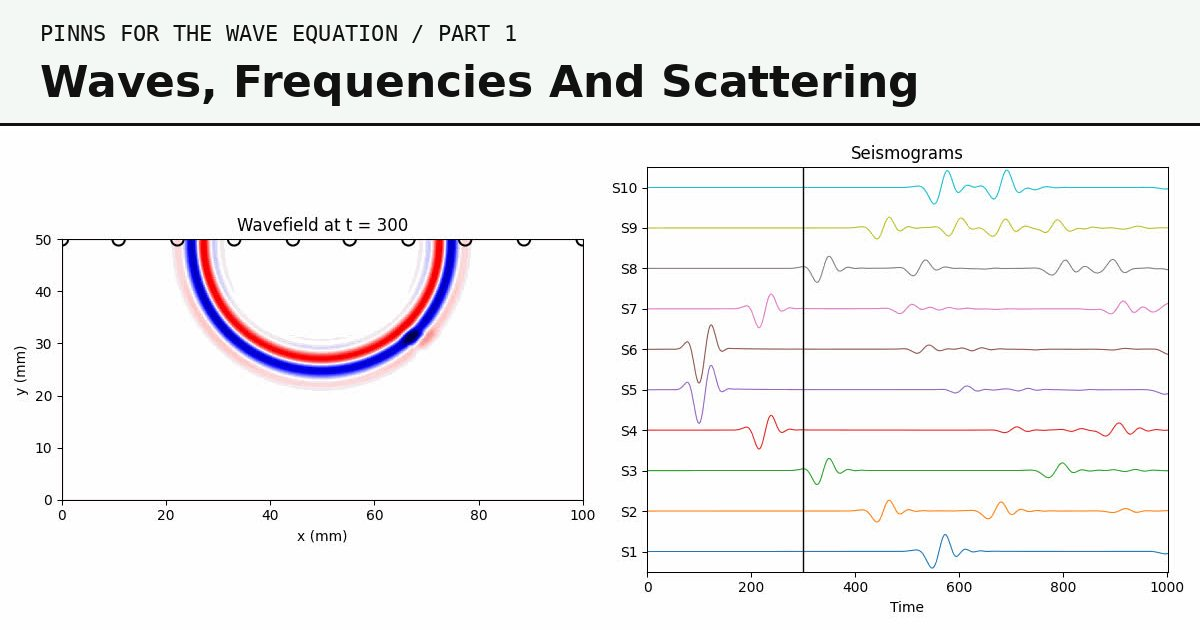
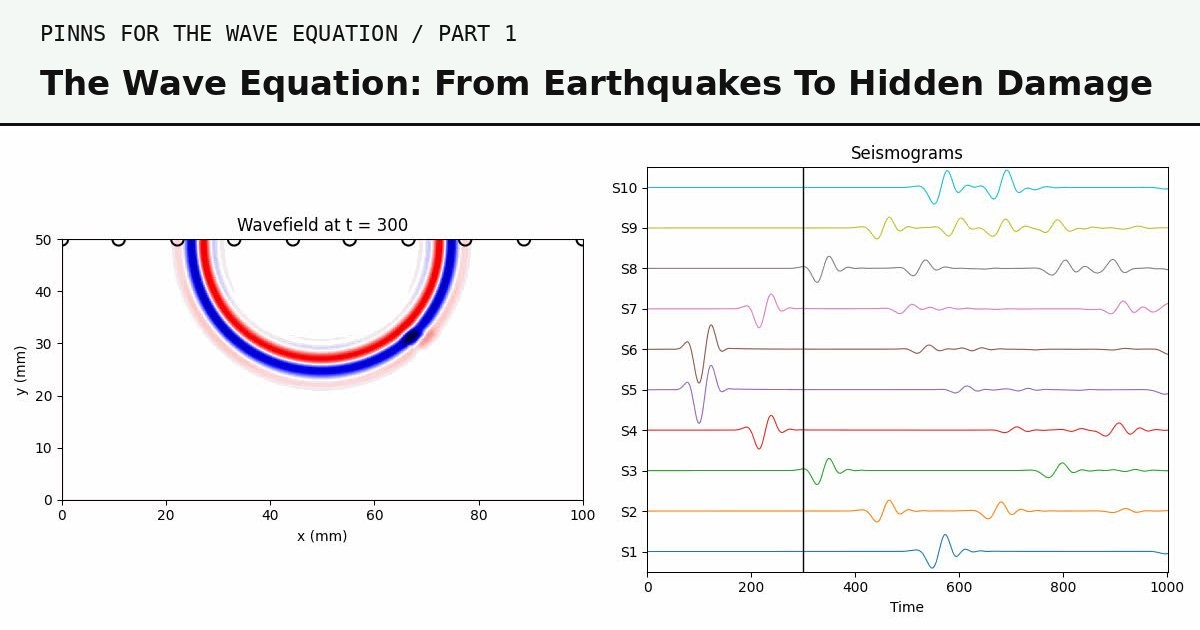
Part 1: new title 'The Wave Equation: From Earthquakes To Hidden Damage'
Updates the page heading, series card, browser title, social preview
text and image, and structured data. URL is unchanged.

Claude-Session: https://claude.ai/code/session_01Hr3onEVabcmNZVpwGadwaP

Changed region(s): [[0.0308, 0.0905, 0.9558, 0.181]]

diff --git a/pinns-wave-equation-part-1.html b/pinns-wave-equation-part-1.html
@@ -3,14 +3,14 @@
 <head>
 <meta charset="utf-8">
 <meta name="viewport" content="width=device-width, initial-scale=1">
-<title>Waves, Frequencies And Scattering: PINNs For The Wave Equation, Part 1 | Hannan</title>
+<title>The Wave Equation: From Earthquakes To Hidden Damage | PINNs Part 1 | Hannan</title>
 <meta name="description" content="An introduction to the wave equation: elastic and acoustic waves, frequency and wavelength, time versus frequency domain, and the scattered field, with animations. Part 1 of a series on physics-informed neural networks (PINNs) for waves.">
 <meta name="author" content="Hannan">
 <meta name="robots" content="index, follow, max-image-preview:large">
 <link rel="canonical" href="https://hannanmustajab.github.io/pinns-wave-equation-part-1.html">
 <meta property="og:site_name" content="Hannan Mustajab">
 <meta property="og:type" content="article">
-<meta property="og:title" content="Waves, Frequencies And Scattering: PINNs For The Wave Equation, Part 1">
+<meta property="og:title" content="The Wave Equation: From Earthquakes To Hidden Damage | PINNs Part 1">
 <meta property="og:description" content="An introduction to the wave equation: elastic and acoustic waves, frequency and wavelength, time versus frequency domain, and the scattered field, with animations. Part 1 of a series on physics-informed neural networks (PINNs) for waves.">
 <meta property="og:url" content="https://hannanmustajab.github.io/pinns-wave-equation-part-1.html">
 <meta property="og:image" content="https://hannanmustajab.github.io/assets/writing/pinns-part-1/og-part-1.jpg">
@@ -22,10 +22,10 @@
 <meta property="article:tag" content="Wave equation">
 <meta property="article:tag" content="PINNs">
 <meta name="twitter:card" content="summary_large_image">
-<meta name="twitter:title" content="Waves, Frequencies And Scattering: PINNs For The Wave Equation, Part 1">
+<meta name="twitter:title" content="The Wave Equation: From Earthquakes To Hidden Damage | PINNs Part 1">
 <meta name="twitter:description" content="An introduction to the wave equation: elastic and acoustic waves, frequency and wavelength, time versus frequency domain, and the scattered field, with animations. Part 1 of a series on physics-informed neural networks (PINNs) for waves.">
 <meta name="twitter:image" content="https://hannanmustajab.github.io/assets/writing/pinns-part-1/og-part-1.jpg">
-<script type="application/ld+json">{"@context": "https://schema.org", "@graph": [{"@type": "BlogPosting", "@id": "https://hannanmustajab.github.io/pinns-wave-equation-part-1.html#article", "headline": "Waves, Frequencies And Scattering", "alternativeHeadline": "PINNs For The Wave Equation, Part 1 of 3", "description": "An introduction to the wave equation: elastic and acoustic waves, frequency and wavelength, time versus frequency domain, and the scattered field, with animations. Part 1 of a series on physics-informed neural networks (PINNs) for waves.", "url": "https://hannanmustajab.github.io/pinns-wave-equation-part-1.html", "mainEntityOfPage": "https://hannanmustajab.github.io/pinns-wave-equation-part-1.html", "image": ["https://hannanmustajab.github.io/assets/writing/pinns-part-1/og-part-1.jpg"], "datePublished": "2026-11-01", "dateModified": "2026-11-04", "inLanguage": "en", "author": {"@id": "https://hannanmustajab.github.io/#person"}, "publisher": {"@id": "https://hannanmustajab.github.io/#person"}, "isPartOf": {"@type": "CreativeWorkSeries", "name": "PINNs For The Wave Equation"}, "keywords": "wave equation, physics-informed neural networks, PINNs, acoustic wave equation, elastic wave equation, Helmholtz equation, scattered field, frequency domain, time domain, wavelength, non-destructive testing, seismic imaging", "about": ["Wave equation", "Physics-informed neural networks", "Scattering"], "educationalLevel": "Introductory"}, {"@type": "BreadcrumbList", "itemListElement": [{"@type": "ListItem", "position": 1, "name": "Home", "item": "https://hannanmustajab.github.io/"}, {"@type": "ListItem", "position": 2, "name": "Writing", "item": "https://hannanmustajab.github.io/pinns-wave-equation-part-1.html"}, {"@type": "ListItem", "position": 3, "name": "Waves, Frequencies And Scattering", "item": "https://hannanmustajab.github.io/pinns-wave-equation-part-1.html"}]}]}</script>
+<script type="application/ld+json">{"@context": "https://schema.org", "@graph": [{"@type": "BlogPosting", "@id": "https://hannanmustajab.github.io/pinns-wave-equation-part-1.html#article", "headline": "The Wave Equation: From Earthquakes To Hidden Damage", "alternativeHeadline": "PINNs For The Wave Equation, Part 1 of 3", "description": "An introduction to the wave equation: elastic and acoustic waves, frequency and wavelength, time versus frequency domain, and the scattered field, with animations. Part 1 of a series on physics-informed neural networks (PINNs) for waves.", "url": "https://hannanmustajab.github.io/pinns-wave-equation-part-1.html", "mainEntityOfPage": "https://hannanmustajab.github.io/pinns-wave-equation-part-1.html", "image": ["https://hannanmustajab.github.io/assets/writing/pinns-part-1/og-part-1.jpg"], "datePublished": "2026-11-01", "dateModified": "2026-11-04", "inLanguage": "en", "author": {"@id": "https://hannanmustajab.github.io/#person"}, "publisher": {"@id": "https://hannanmustajab.github.io/#person"}, "isPartOf": {"@type": "CreativeWorkSeries", "name": "PINNs For The Wave Equation"}, "keywords": "wave equation, physics-informed neural networks, PINNs, acoustic wave equation, elastic wave equation, Helmholtz equation, scattered field, frequency domain, time domain, wavelength, non-destructive testing, seismic imaging", "about": ["Wave equation", "Physics-informed neural networks", "Scattering"], "educationalLevel": "Introductory"}, {"@type": "BreadcrumbList", "itemListElement": [{"@type": "ListItem", "position": 1, "name": "Home", "item": "https://hannanmustajab.github.io/"}, {"@type": "ListItem", "position": 2, "name": "Writing", "item": "https://hannanmustajab.github.io/pinns-wave-equation-part-1.html"}, {"@type": "ListItem", "position": 3, "name": "The Wave Equation: From Earthquakes To Hidden Damage", "item": "https://hannanmustajab.github.io/pinns-wave-equation-part-1.html"}]}]}</script>
 <link rel="icon" href="favicon.svg" type="image/svg+xml">
 <link rel="preconnect" href="https://fonts.googleapis.com">
 <link rel="preconnect" href="https://fonts.gstatic.com" crossorigin>
@@ -43,7 +43,7 @@
     </nav>
     <header class="p1-gutter" style="max-width: 1240px; margin: 0 auto; padding: 40px 24px 0; display: flex; flex-direction: column; gap: 24px">
       <span style="font-family: 'JetBrains Mono', monospace; font-size: 13px; letter-spacing: 0.06em">WRITING / PINNS FOR THE WAVE EQUATION / PART 1 OF 3</span>
-      <h1 style="margin: 0; font-family: 'Archivo', sans-serif; font-weight: 800; font-size: clamp(48px, 7vw, 96px); line-height: 0.95; letter-spacing: -0.04em; max-width: 1100px">Waves, Frequencies And Scattering</h1>
+      <h1 style="margin: 0; font-family: 'Archivo', sans-serif; font-weight: 800; font-size: clamp(48px, 7vw, 96px); line-height: 0.95; letter-spacing: -0.04em; max-width: 1100px">The Wave Equation: From Earthquakes To Hidden Damage</h1>
       <p style="margin: 0; font-family: 'Archivo', sans-serif; font-weight: 500; font-size: clamp(22px, 2.6vw, 30px); line-height: 1.3; letter-spacing: -0.01em; max-width: 960px">Before a neural network can simulate a wave, we need to know what the wave equation says, why we often simplify it, how the same wave looks in time and in frequency, and what we mean by the scattered field.</p>
       <div style="display: flex; flex-wrap: wrap; gap: 8px; align-items: center"><span style="font-family: 'JetBrains Mono', monospace; font-size: 12px; padding: 4px 10px; background: #FFE066; border: 2px solid #111111">SERIES, PART 1 OF 3</span><span style="font-family: 'JetBrains Mono', monospace; font-size: 12px; padding: 4px 10px; background: #FFFFFF; border: 2px solid #111111">BY HANNAN</span><span style="font-family: 'JetBrains Mono', monospace; font-size: 12px; padding: 4px 10px; background: #FFFFFF; border: 2px solid #111111">NOV 1, 2026</span><span style="font-family: 'JetBrains Mono', monospace; font-size: 12px; padding: 4px 10px; background: #FFFFFF; border: 2px solid #111111">12 MIN READ</span><span style="font-family: 'JetBrains Mono', monospace; font-size: 12px; padding: 4px 10px; background: #FFFFFF; border: 2px solid #111111">INTRODUCTION</span><span style="font-family: 'JetBrains Mono', monospace; font-size: 12px; padding: 4px 10px; background: #FFFFFF; border: 2px solid #111111">WAVE EQUATION</span></div>
     </header>
@@ -51,7 +51,7 @@
   </div>
   <main>
     <section aria-label="The series" class="p1-gutter" style="max-width: 1240px; margin: 0 auto; padding: 40px 24px 0">
-      <div style="display: grid; grid-template-columns: repeat(auto-fit, minmax(260px, 1fr)); gap: 16px"><a href="pinns-wave-equation-part-1.html" aria-current="page" style="background: #FFE066; border: 2px solid #111111; padding: 18px 20px; text-decoration: none; color: #111111; display: flex; flex-direction: column; gap: 6px; box-shadow: 6px 6px 0 #111111"><span style="font-family: 'JetBrains Mono', monospace; font-size: 12px">PART 1 OF 3 / YOU ARE HERE</span><span style="font-family: 'Archivo', sans-serif; font-weight: 800; font-size: 22px; line-height: 1.1">Waves, Frequencies And Scattering</span><span style="font-size: 14px; color: #333333">What the wave equation says, time versus frequency, and what a scattered field is.</span></a><div aria-disabled="true" style="background: #F4F4F4; border: 2px dashed #9A9A9A; padding: 18px 20px; color: #6B6B6B; display: flex; flex-direction: column; gap: 6px; cursor: default"><span style="font-family: 'JetBrains Mono', monospace; font-size: 12px">PART 2 OF 3 / COMING SOON</span><span style="font-family: 'Archivo', sans-serif; font-weight: 800; font-size: 22px; line-height: 1.1">Why We Learn The Scattered Field</span><span style="font-size: 14px; color: #6B6B6B">Splitting off the known incident wave so the network learns only the echo from the damage.</span></div><div aria-disabled="true" style="background: #F4F4F4; border: 2px dashed #9A9A9A; padding: 18px 20px; color: #6B6B6B; display: flex; flex-direction: column; gap: 6px; cursor: default"><span style="font-family: 'JetBrains Mono', monospace; font-size: 12px">PART 3 OF 3 / COMING SOON</span><span style="font-family: 'Archivo', sans-serif; font-weight: 800; font-size: 22px; line-height: 1.1">Architectures That Can Capture Waves</span><span style="font-size: 14px; color: #6B6B6B">An overview of encodings, sine activations, optimisers and adaptive sampling.</span></div></div>
+      <div style="display: grid; grid-template-columns: repeat(auto-fit, minmax(260px, 1fr)); gap: 16px"><a href="pinns-wave-equation-part-1.html" aria-current="page" style="background: #FFE066; border: 2px solid #111111; padding: 18px 20px; text-decoration: none; color: #111111; display: flex; flex-direction: column; gap: 6px; box-shadow: 6px 6px 0 #111111"><span style="font-family: 'JetBrains Mono', monospace; font-size: 12px">PART 1 OF 3 / YOU ARE HERE</span><span style="font-family: 'Archivo', sans-serif; font-weight: 800; font-size: 22px; line-height: 1.1">The Wave Equation: From Earthquakes To Hidden Damage</span><span style="font-size: 14px; color: #333333">What the wave equation says, time versus frequency, and what a scattered field is.</span></a><div aria-disabled="true" style="background: #F4F4F4; border: 2px dashed #9A9A9A; padding: 18px 20px; color: #6B6B6B; display: flex; flex-direction: column; gap: 6px; cursor: default"><span style="font-family: 'JetBrains Mono', monospace; font-size: 12px">PART 2 OF 3 / COMING SOON</span><span style="font-family: 'Archivo', sans-serif; font-weight: 800; font-size: 22px; line-height: 1.1">Why We Learn The Scattered Field</span><span style="font-size: 14px; color: #6B6B6B">Splitting off the known incident wave so the network learns only the echo from the damage.</span></div><div aria-disabled="true" style="background: #F4F4F4; border: 2px dashed #9A9A9A; padding: 18px 20px; color: #6B6B6B; display: flex; flex-direction: column; gap: 6px; cursor: default"><span style="font-family: 'JetBrains Mono', monospace; font-size: 12px">PART 3 OF 3 / COMING SOON</span><span style="font-family: 'Archivo', sans-serif; font-weight: 800; font-size: 22px; line-height: 1.1">Architectures That Can Capture Waves</span><span style="font-size: 14px; color: #6B6B6B">An overview of encodings, sine activations, optimisers and adaptive sampling.</span></div></div>
     </section>
     <div class="p1-col"><nav class="p1-toc" aria-label="In this part"><span class="p1-toc-label">IN THIS PART</span><ol><li><a href="#why-study-the-wave-equation"><span class="p1-toc-num">01</span>Why Study The Wave Equation?</a></li><li><a href="#the-elastic-wave-equation"><span class="p1-toc-num">02</span>The Elastic Wave Equation</a></li><li><a href="#from-elastic-to-acoustic"><span class="p1-toc-num">03</span>From Elastic To Acoustic</a></li><li><a href="#frequency-wavelength-and-how-many-waves-fit"><span class="p1-toc-num">04</span>Frequency, Wavelength And How Many Waves Fit</a></li><li><a href="#time-domain-versus-frequency-domain"><span class="p1-toc-num">05</span>Time Domain Versus Frequency Domain</a></li><li><a href="#what-is-a-scattered-field"><span class="p1-toc-num">06</span>What Is A Scattered Field?</a></li><li><a href="#how-a-wave-reveals-damage"><span class="p1-toc-num">07</span>How A Wave Reveals Damage</a></li><li><a href="#references"><span class="p1-toc-num">08</span>References</a></li><li><a href="#appendix-the-applications-in-pictures"><span class="p1-toc-num">09</span>Appendix: The Applications In Pictures</a></li></ol></nav><article class="p1-article"><p>What is a wave? Whitham gives a deliberately broad definition: "a wave is any recognizable signal that is transferred from one part of the medium to another with a recognizable velocity of propagation" <span class="p1-cite">[<a href="#ref-22">22</a>]</span>. In seismology and ultrasonics the signal is a mechanical disturbance, a small displacement of the material that propagates as an elastic wave <span class="p1-cite">[<a href="#ref-1">1</a>, <a href="#ref-14">14</a>]</span>. When an ultrasonic transducer excites a concrete specimen, such a pulse travels through it, reflects at the boundaries and is scattered by any heterogeneity inside, such as a void, a crack or a region of damage. If we can model this wave accurately, we can also work backwards from measurements and infer what is hidden. This is the motivation for the whole series.</p><figure id="fig-opening" class="p1-fig p1-wide p1-hero"><div class="p1-fig-media"><video class="p1-anim" autoplay muted loop playsinline preload="auto" poster="assets/writing/pinns-part-1/wave_and_seismograms-poster.jpg" width="1200" height="500" aria-label="Animation: a wave propagating through a block with a damaged region and ten receivers on the top surface, next to the ten signals the receivers record over time" style="display: block; width: 100%; height: auto; aspect-ratio: 1200 / 500; max-width: 1200px; margin: 0 auto"><source src="assets/writing/pinns-part-1/wave_and_seismograms.mp4" type="video/mp4"></video></div><figcaption><span class="p1-fig-tags"><span class="p1-fig-label">THE SERIES IN ONE PICTURE</span><span class="p1-tag">ANIMATION</span></span><span class="p1-fig-text">The series in one animation. Left: a cross-section of a block containing a small damaged region. A source at the centre of the top surface emits a pulse, and a circular wavefront propagates into the block. When the wavefront reaches the damage, the damage itself becomes a secondary source and emits a scattered wavefront. Right: ten receivers on the top surface (S1 to S10) record the surface response over time; the vertical line marks the instant shown on the left. In a real measurement only the right-hand side is available. The question this series works towards is whether the interior on the left can be reconstructed from those recordings. Animation by the author.</span></figcaption></figure><aside class="p1-callout" aria-label="How this part is organised"><p>Each section below explains one part of this picture: the equation that governs the wavefront (the wave equation), how its wavelength limits what it can resolve (frequency and wavelength), two equivalent descriptions of it (time and frequency domain), and the secondary wavefront emitted by the damage (the scattered field).</p></aside><section aria-labelledby="why-study-the-wave-equation" class="p1-section"><h2 id="why-study-the-wave-equation">Why Study The Wave Equation?</h2><p>Waves are everywhere. Sound, light, radio and Wi-Fi signals, ocean swell, earthquakes and the electrical rhythms of the brain recorded in an EEG are all waves, and Whitham's definition is broad enough to include waves of traffic density on a motorway <span class="p1-cite">[<a href="#ref-22">22</a>]</span>. The mathematics developed for them also reaches far beyond physics. In quantitative finance, option prices are computed in the frequency domain with the fast Fourier transform, the same tool used to move between time and frequency later in this post <span class="p1-cite">[<a href="#ref-23">23</a>]</span>, and wavelets, localised wave packets, are used to separate financial time series into components that act on different time scales <span class="p1-cite">[<a href="#ref-24">24</a>]</span>. Learning to describe waves well is therefore a skill that transfers across many fields.</p><p>Waves are one of the few ways to look inside an object without opening it. As they propagate, everything they encounter alters them: a layer changes their speed, a crack reflects them, a void bends (scatters) them. A recording of the wavefield at the surface therefore carries information about the interior, provided we know how to interpret it. The wave equation is the physical law that links the interior of the material to what we record, and almost every wave-based imaging method starts from it.</p><p>The imaging applications in Figure A all work the same way: a source sends a wave, the wave interacts with the medium, and a receiver records what comes back.</p><figure id="fig-a" class="p1-fig p1-wide"><div class="p1-fig-media"><img src="assets/writing/pinns-part-1/apps.png" alt="Seven applications of the wave equation, each drawn as source, wave, target and receiver" width="2296" height="1288" loading="lazy" decoding="async" style="aspect-ratio: 2296 / 1288; max-width: 2296px; margin: 0 auto"></div><figcaption><span class="p1-fig-tags"><span class="p1-fig-label">FIGURE A</span></span><span class="p1-fig-text">Seven applications of the wave equation, drawn with the same symbols. Numbers in brackets point to the references. Photographs of each application are in the appendix.</span></figcaption></figure><div class="p1-table" role="region" aria-label="Table" tabindex="0"><table><thead><tr><th scope="col">Application</th><th scope="col">What travels</th><th scope="col">What we want to know</th><th scope="col">Further reading</th></tr></thead><tbody><tr><th scope="row">Earthquake seismology</th><td>elastic waves through the Earth</td><td>the structure of the crust and mantle, the earthquake source</td><td class="p1-refcell"><span class="p1-cite">[<a href="#ref-1">1</a>]</span></td></tr><tr><th scope="row">Exploration geophysics</th><td>seismic waves from controlled sources</td><td>rock layers, reservoirs, the ground under a building site</td><td class="p1-refcell"><span class="p1-cite">[<a href="#ref-8">8</a>]</span>, <span class="p1-cite">[<a href="#ref-9">9</a>]</span></td></tr><tr><th scope="row">Non-destructive testing</th><td>ultrasound in steel, concrete or composites</td><td>cracks, voids and delamination, without damaging the part</td><td class="p1-refcell"><span class="p1-cite">[<a href="#ref-14">14</a>]</span></td></tr><tr><th scope="row">Structural health monitoring</th><td>guided and bulk waves in bridges, pipes and buildings</td><td>whether damage is forming over time</td><td class="p1-refcell"><span class="p1-cite">[<a href="#ref-18">18</a>]</span></td></tr><tr><th scope="row">Medical ultrasound</th><td>sound in soft tissue</td><td>images of organs and blood flow</td><td class="p1-refcell"><span class="p1-cite">[<a href="#ref-15">15</a>]</span></td></tr><tr><th scope="row">Underwater acoustics and sonar</th><td>sound in the ocean</td><td>objects, the sea floor, ocean properties</td><td class="p1-refcell"><span class="p1-cite">[<a href="#ref-16">16</a>]</span></td></tr><tr><th scope="row">Ground penetrating radar</th><td>electromagnetic waves in soil and concrete</td><td>rebar, pipes, moisture, buried objects</td><td class="p1-refcell"><span class="p1-cite">[<a href="#ref-17">17</a>]</span></td></tr></tbody></table></div><p>The last row is a reminder that the same mathematics also describes light and radio waves. Everything in this series is about mechanical waves in solids, but the ideas carry over.</p></section><section aria-labelledby="the-elastic-wave-equation" class="p1-section"><h2 id="the-elastic-wave-equation">The Elastic Wave Equation</h2><p>In a solid such as concrete or rock, every point can move in any direction. We describe this with a displacement vector <strong>u</strong>(x, t): how far, and in which direction, the point at x has moved at time t. Newton's second law (mass times acceleration equals force) applied to a tiny piece of the solid gives the elastic wave equation <span class="p1-cite">[<a href="#ref-1">1</a>, <a href="#ref-2">2</a>, <a href="#ref-3">3</a>]</span>:</p><div class="p1-eq" role="group" aria-label="elastic wave equation"><span class="p1-eq-label">ELASTIC WAVE EQUATION</span><div class="p1-eq-body"><div class="p1-eq-part"><span class="katex-display"><span class="katex"><span class="katex-mathml"><math xmlns="http://www.w3.org/1998/Math/MathML" display="block"><semantics><mrow><mi>ρ</mi><mo stretchy="false">(</mo><mi>x</mi><mo stretchy="false">)</mo><mtext> </mtext><mfrac><mrow><msup><mi mathvariant="normal">∂</mi><mn>2</mn></msup><mi mathvariant="bold">u</mi></mrow><mrow><mi mathvariant="normal">∂</mi><msup><mi>t</mi><mn>2</mn></msup></mrow></mfrac><mo>=</mo><mi mathvariant="normal">∇</mi><mo>⋅</mo><mi mathvariant="bold-italic">σ</mi><mo>+</mo><mi mathvariant="bold">f</mi><mo separator="true">,</mo></mrow><annotation encoding="application/x-tex">\rho(x) \, \frac{\partial^2 \mathbf{u}}{\partial t^2} = \nabla \cdot \boldsymbol{\sigma} + \mathbf{f},</annotation></semantics></math></span><span class="katex-html" aria-hidden="true"><span class="base"><span class="strut" style="height:2.1771em;vertical-align:-0.686em;"></span><span class="mord mathnormal">ρ</span><span class="mopen">(</span><span class="mord mathnormal">x</span><span class="mclose">)</span><span class="mspace" style="margin-right:0.1667em;"></span><span class="mord"><span class="mopen nulldelimiter"></span><span class="mfrac"><span class="vlist-t vlist-t2"><span class="vlist-r"><span class="vlist" style="height:1.4911em;"><span style="top:-2.314em;"><span class="pstrut" style="height:3em;"></span><span class="mord"><span class="mord" style="margin-right:0.05556em;">∂</span><span class="mord"><span class="mord mathnormal">t</span><span class="msupsub"><span class="vlist-t"><span class="vlist-r"><span class="vlist" style="height:0.7401em;"><span style="top:-2.989em;margin-right:0.05em;"><span class="pstrut" style="height:2.7em;"></span><span class="sizing reset-size6 size3 mtight"><span class="mord mtight">2</span></span></span></span></span></span></span></span></span></span><span style="top:-3.23em;"><span class="pstrut" style="height:3em;"></span><span class="frac-line" style="border-bottom-width:0.04em;"></span></span><span style="top:-3.677em;"><span class="pstrut" style="height:3em;"></span><span class="mord"><span class="mord"><span class="mord" style="margin-right:0.05556em;">∂</span><span class="msupsub"><span class="vlist-t"><span class="vlist-r"><span class="vlist" style="height:0.8141em;"><span style="top:-3.063em;margin-right:0.05em;"><span class="pstrut" style="height:2.7em;"></span><span class="sizing reset-size6 size3 mtight"><span class="mord mtight">2</span></span></span></span></span></span></span></span><span class="mord mathbf">u</span></span></span></span><span class="vlist-s"></span></span><span class="vlist-r"><span class="vlist" style="height:0.686em;"><span></span></span></span></span></span><span class="mclose nulldelimiter"></span></span><span class="mspace" style="margin-right:0.2778em;"></span><span class="mrel">=</span><span class="mspace" style="margin-right:0.2778em;"></span></span><span class="base"><span class="strut" style="height:0.6833em;"></span><span class="mord">∇</span><span class="mspace" style="margin-right:0.2222em;"></span><span class="mbin">⋅</span><span class="mspace" style="margin-right:0.2222em;"></span></span><span class="base"><span class="strut" style="height:0.6667em;vertical-align:-0.0833em;"></span><span class="mord"><span class="mord"><span class="mord boldsymbol" style="margin-right:0.03704em;">σ</span></span></span><span class="mspace" style="margin-right:0.2222em;"></span><span class="mbin">+</span><span class="mspace" style="margin-right:0.2222em;"></span></span><span class="base"><span class="strut" style="height:0.8889em;vertical-align:-0.1944em;"></span><span class="mord mathbf" style="margin-right:0.10903em;">f</span><span class="mpunct">,</span></span></span></span></span></div><div class="p1-eq-part"><span class="katex-display"><span class="katex"><span class="katex-mathml"><math xmlns="http://www.w3.org/1998/Math/MathML" display="block"><semantics><mrow><mi mathvariant="bold-italic">σ</mi><mo>=</mo><mi>λ</mi><mtext> </mtext><mo stretchy="false">(</mo><mi mathvariant="normal">∇</mi><mo>⋅</mo><mi mathvariant="bold">u</mi><mo stretchy="false">)</mo><mtext> </mtext><mi mathvariant="bold">I</mi><mo>+</mo><mi>μ</mi><mrow><mo fence="true">(</mo><mi mathvariant="normal">∇</mi><mi mathvariant="bold">u</mi><mo>+</mo><mi mathvariant="normal">∇</mi><msup><mi mathvariant="bold">u</mi><mi mathvariant="normal">⊤</mi></msup><mo fence="true">)</mo></mrow></mrow><annotation encoding="application/x-tex">\boldsymbol{\sigma} = \lambda \, (\nabla \cdot \mathbf{u}) \, \mathbf{I} + \mu \left( \nabla \mathbf{u} + \nabla \mathbf{u}^{\top} \right)</annotation></semantics></math></span><span class="katex-html" aria-hidden="true"><span class="base"><span class="strut" style="height:0.4444em;"></span><span class="mord"><span class="mord"><span class="mord boldsymbol" style="margin-right:0.03704em;">σ</span></span></span><span class="mspace" style="margin-right:0.2778em;"></span><span class="mrel">=</span><span class="mspace" style="margin-right:0.2778em;"></span></span><span class="base"><span class="strut" style="height:1em;vertical-align:-0.25em;"></span><span class="mord mathnormal">λ</span><span class="mspace" style="margin-right:0.1667em;"></span><span class="mopen">(</span><span class="mord">∇</span><span class="mspace" style="margin-right:0.2222em;"></span><span class="mbin">⋅</span><span class="mspace" style="margin-right:0.2222em;"></span></span><span class="base"><span class="strut" style="height:1em;vertical-align:-0.25em;"></span><span class="mord mathbf">u</span><span class="mclose">)</span><span class="mspace" style="margin-right:0.1667em;"></span><span class="mord mathbf">I</span><span class="mspace" style="margin-right:0.2222em;"></span><span class="mbin">+</span><span class="mspace" style="margin-right:0.2222em;"></span></span><span class="base"><span class="strut" style="height:1.2491em;vertical-align:-0.35em;"></span><span class="mord mathnormal">μ</span><span class="mspace" style="margin-right:0.1667em;"></span><span class="minner"><span class="mopen delimcenter" style="top:0em;"><span class="delimsizing size1">(</span></span><span class="mord">∇</span><span class="mord mathbf">u</span><span class="mspace" style="margin-right:0.2222em;"></span><span class="mbin">+</span><span class="mspace" style="margin-right:0.2222em;"></span><span class="mord">∇</span><span class="mord"><span class="mord mathbf">u</span><span class="msupsub"><span class="vlist-t"><span class="vlist-r"><span class="vlist" style="height:0.8991em;"><span style="top:-3.113em;margin-right:0.05em;"><span class="pstrut" style="height:2.7em;"></span><span class="sizing reset-size6 size3 mtight"><span class="mord mtight"><span class="mord mtight">⊤</span></span></span></span></span></span></span></span></span><span class="mclose delimcenter" style="top:0em;"><span class="delimsizing size1">)</span></span></span></span></span></span></span></div></div></div><p>The terms are:</p><ul><li><strong>The left side</strong> is mass (the density ρ) times acceleration.</li><li><strong>σ (the stress)</strong> is the internal force per area that builds up when the solid is squeezed or sheared. The second equation, Hooke's law, says how much stress a given deformation creates.</li><li><strong>λ and μ (the Lamé parameters)</strong> describe the stiffness of the material. μ is the resistance to shearing.</li><li><strong>f</strong> is the source, such as a transducer pushing on the surface.</li></ul><p>This single equation supports two types of body waves, and an earthquake shows both of them clearly. When a fault ruptures, it sends out two wavefronts at once. The first to reach a distant town is the <strong>P wave</strong> (primary or pressure wave). It is longitudinal: the rock is alternately compressed and stretched along the direction the wave travels, much like a push passed along a coiled spring, and people close to the source often feel it as a sharp jolt. Some seconds later the <strong>S wave</strong> (secondary or shear wave) arrives. It is transverse: the rock moves perpendicular to the direction of travel, shearing the ground from side to side, and it usually produces the stronger shaking that damages buildings <span class="p1-cite">[<a href="#ref-1">1</a>, <a href="#ref-25">25</a>]</span>. In a homogeneous, isotropic medium their speeds are</p><div class="p1-eq" role="group" aria-label="p and s wave speeds"><span class="p1-eq-label">P AND S WAVE SPEEDS</span><div class="p1-eq-body"><div class="p1-eq-part"><span class="katex-display"><span class="katex"><span class="katex-mathml"><math xmlns="http://www.w3.org/1998/Math/MathML" display="block"><semantics><mrow><msub><mi>v</mi><mi>P</mi></msub><mo>=</mo><msqrt><mfrac><mrow><mi>λ</mi><mo>+</mo><mn>2</mn><mi>μ</mi></mrow><mi>ρ</mi></mfrac></msqrt><mo separator="true">,</mo></mrow><annotation encoding="application/x-tex">v_P = \sqrt{\frac{\lambda + 2\mu}{\rho}},</annotation></semantics></math></span><span class="katex-html" aria-hidden="true"><span class="base"><span class="strut" style="height:0.5806em;vertical-align:-0.15em;"></span><span class="mord"><span class="mord mathnormal" style="margin-right:0.03588em;">v</span><span class="msupsub"><span class="vlist-t vlist-t2"><span class="vlist-r"><span class="vlist" style="height:0.3283em;"><span style="top:-2.55em;margin-left:-0.0359em;margin-right:0.05em;"><span class="pstrut" style="height:2.7em;"></span><span class="sizing reset-size6 size3 mtight"><span class="mord mathnormal mtight" style="margin-right:0.13889em;">P</span></span></span></span><span class="vlist-s"></span></span><span class="vlist-r"><span class="vlist" style="height:0.15em;"><span></span></span></span></span></span></span><span class="mspace" style="margin-right:0.2778em;"></span><span class="mrel">=</span><span class="mspace" style="margin-right:0.2778em;"></span></span><span class="base"><span class="strut" style="height:3.04em;vertical-align:-1.1606em;"></span><span class="mord sqrt"><span class="vlist-t vlist-t2"><span class="vlist-r"><span class="vlist" style="height:1.8794em;"><span class="svg-align" style="top:-5em;"><span class="pstrut" style="height:5em;"></span><span class="mord" style="padding-left:1em;"><span class="mord"><span class="mopen nulldelimiter"></span><span class="mfrac"><span class="vlist-t vlist-t2"><span class="vlist-r"><span class="vlist" style="height:1.3714em;"><span style="top:-2.314em;"><span class="pstrut" style="height:3em;"></span><span class="mord"><span class="mord mathnormal">ρ</span></span></span><span style="top:-3.23em;"><span class="pstrut" style="height:3em;"></span><span class="frac-line" style="border-bottom-width:0.04em;"></span></span><span style="top:-3.677em;"><span class="pstrut" style="height:3em;"></span><span class="mord"><span class="mord mathnormal">λ</span><span class="mspace" style="margin-right:0.2222em;"></span><span class="mbin">+</span><span class="mspace" style="margin-right:0.2222em;"></span><span class="mord">2</span><span class="mord mathnormal">μ</span></span></span></span><span class="vlist-s"></span></span><span class="vlist-r"><span class="vlist" style="height:0.8804em;"><span></span></span></span></span></span><span class="mclose nulldelimiter"></span></span></span></span><span style="top:-3.8394em;"><span class="pstrut" style="height:5em;"></span><span class="hide-tail" style="min-width:1.02em;height:3.08em;"><svg xmlns="http://www.w3.org/2000/svg" width="400em" height="3.08em" viewBox="0 0 400000 3240" preserveAspectRatio="xMinYMin slice"><path d="M473,2793
 c339.3,-1799.3,509.3,-2700,510,-2702 l0 -0
